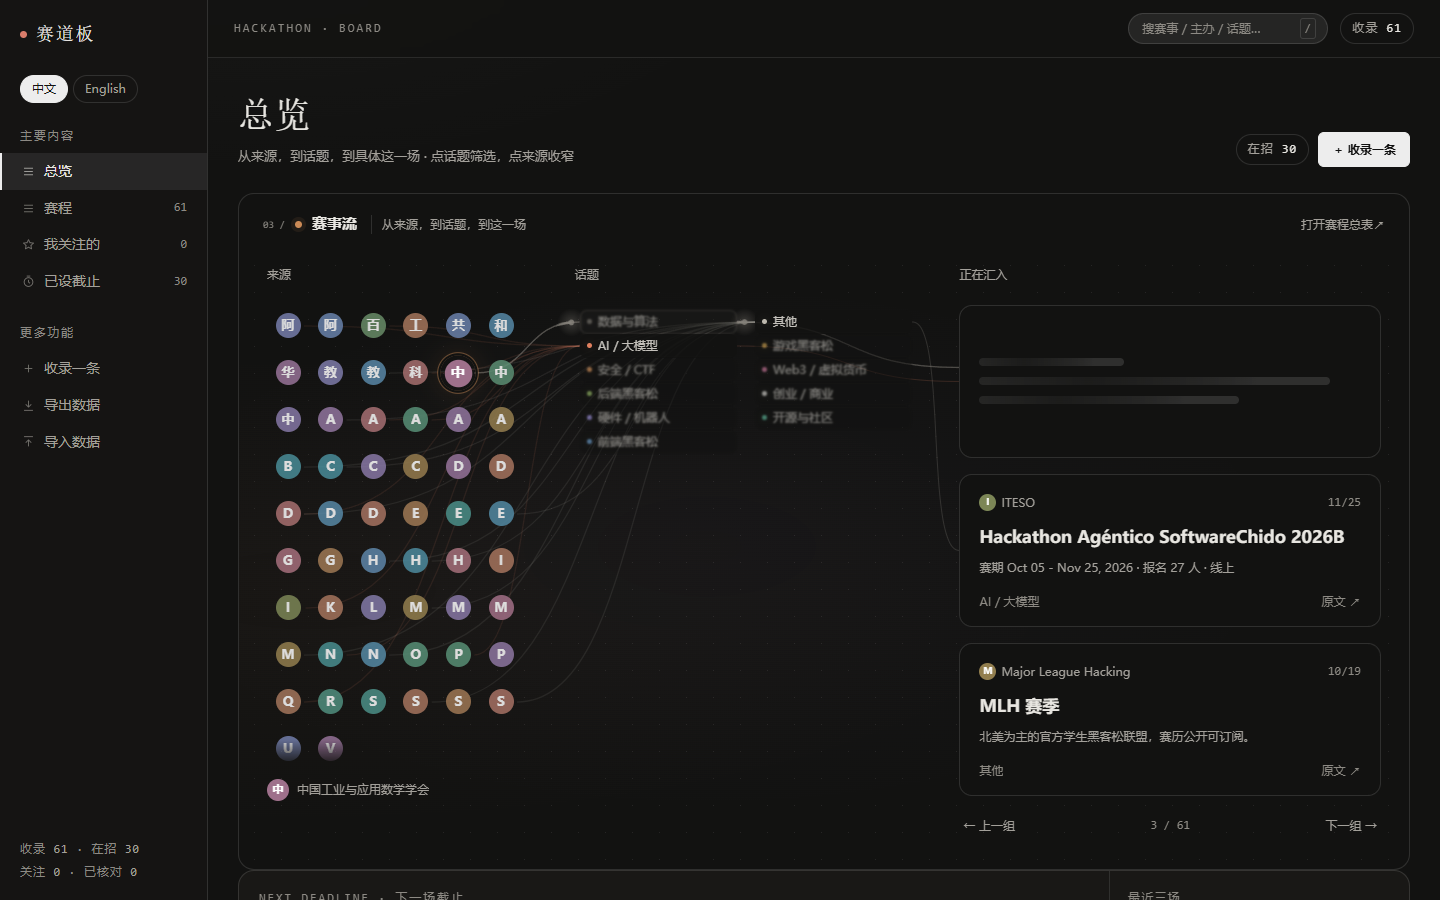
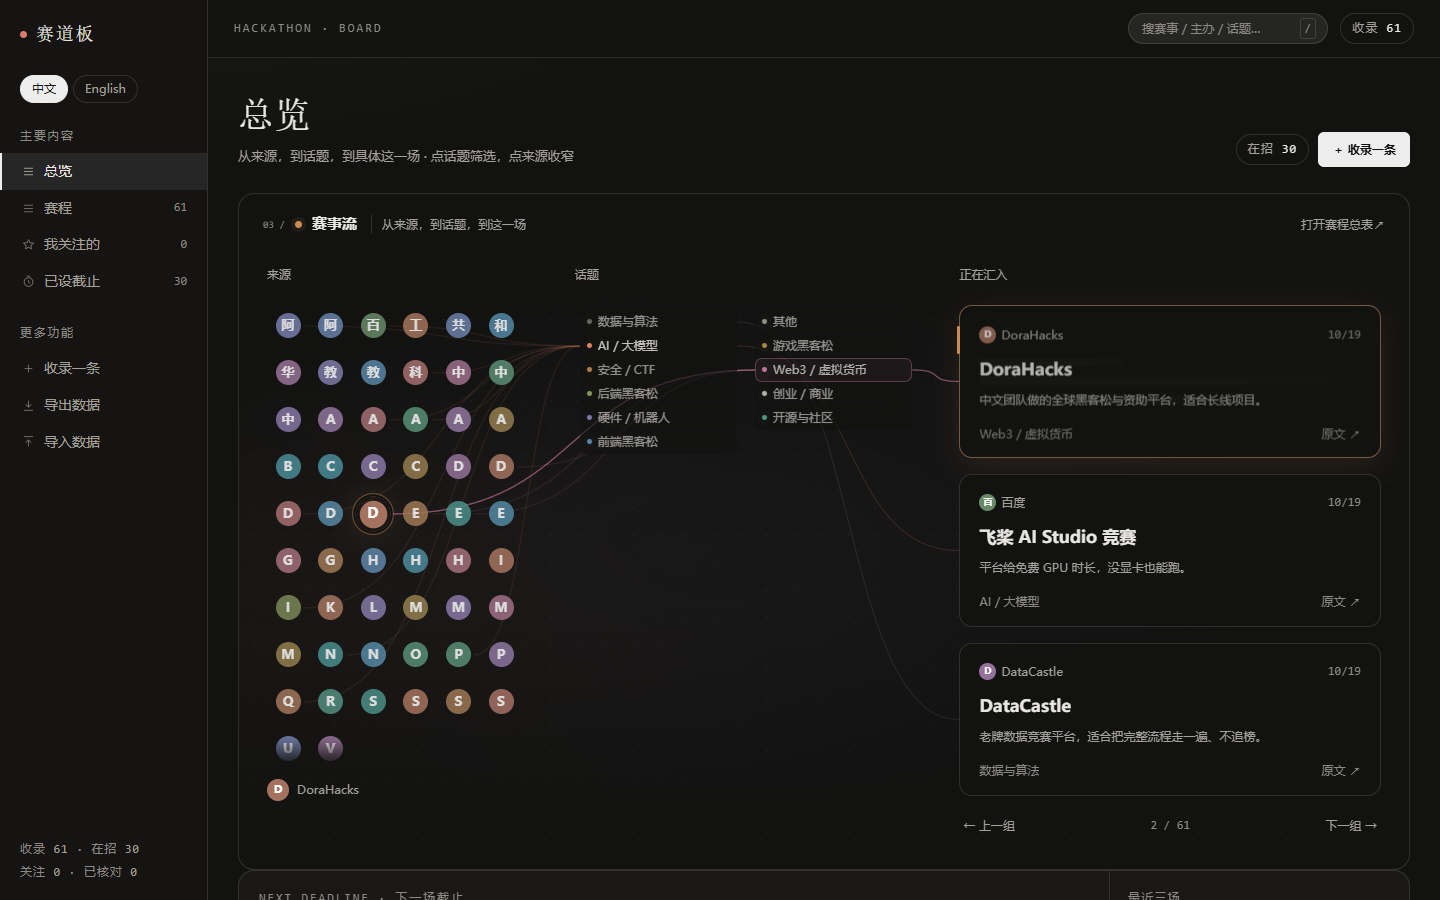
docs: 补 Cloudflare Pages 三种部署路线

diff --git a/部署-Cloudflare.md b/部署-Cloudflare.md
@@ -1,0 +1,120 @@
+# 部署到 Cloudflare Pages
+
+产物是纯静态的 `dist/`（无后端、无 SSR），Cloudflare Pages 免费额度完全够用。
+
+> 为什么要换：GitHub Pages 在国内访问偏慢，`*.pages.dev` 通常快一截，
+> 而且不用备案（服务器在境外）。
+
+---
+
+## 路线 A：拖拽上传（最快，3 分钟，不需要 Git）
+
+适合「先看到东西」。
+
+1. 本地构建一次：
+
+   ```bash
+   node node_modules/vite/bin/vite.js build
+   ```
+
+2. 打开 https://dash.cloudflare.com/ → 左侧 **Workers & Pages** → **Create** → **Pages** → **Upload assets**
+
+3. 项目名填 `hackathon-board`（决定域名 `hackathon-board.pages.dev`）
+
+4. 把 **`dist` 文件夹整个拖进去** → Deploy
+
+完成。地址形如 `https://hackathon-board.pages.dev`。
+
+**缺点**：以后每次改版都要重新拖一次。
+
+---
+
+## 路线 B：连 Git 仓库（推荐，之后全自动）
+
+适合「以后只 push，不再管部署」。
+
+1. Cloudflare 面板 → **Workers & Pages** → **Create** → **Pages** → **Connect to Git**
+
+2. 授权 GitHub，选仓库 `O789Real/hackathon-board` → Begin setup
+
+3. 构建配置**必须手动填**（自动检测会填错）：
+
+   | 字段 | 值 |
+   |---|---|
+   | Framework preset | `None` |
+   | Build command | `npm install && npm run build` |
+   | Build output directory | `dist` |
+   | Node version（环境变量） | `NODE_VERSION=22` |
+
+   > 注意是 `npm install` 而不是 `npm ci` —— 仓库里用的是 pnpm，没有 `package-lock.json`。
+
+4. Save and Deploy。
+
+之后：
+
+- 你 `git push` → Cloudflare 自动重新构建发布
+- **每天 08:00 的 GitHub Actions 提交了新的 `events.ts` → 也会触发 Cloudflare 重新构建**
+
+两份部署可以并存：GitHub Pages 当备份，`pages.dev` 当主入口。
+
+---
+
+## 路线 C：CI 里直接推（要一个 API Token）
+
+如果你不想让 Cloudflare 自己构建（它每次都要装一遍依赖），
+可以让现有的 GitHub Actions 构建一次、同时发两个地方。
+
+1. Cloudflare 面板 → 右上头像 → **My Profile** → **API Tokens** → **Create Token**
+   → 模板选 **Edit Cloudflare Workers**（或自定义：`Account.Cloudflare Pages: Edit`）
+
+2. 顺手记下 **Account ID**（面板右侧栏，或 URL 里那串 32 位）
+
+3. 到 GitHub 仓库 → Settings → Secrets and variables → Actions → 加两个：
+
+   | Secret | 值 |
+   |---|---|
+   | `CLOUDFLARE_API_TOKEN` | 刚才的 token |
+   | `CLOUDFLARE_ACCOUNT_ID` | 你的 Account ID |
+
+4. 在 `.github/workflows/deploy.yml` 的 `build` job 末尾、`upload-pages-artifact` 之前加一步：
+
+   ```yaml
+       - name: 发布到 Cloudflare Pages
+         if: env.CF_TOKEN != ''
+         env:
+           CF_TOKEN: ${{ secrets.CLOUDFLARE_API_TOKEN }}
+         run: npx wrangler@latest pages deploy dist --project-name=hackathon-board
+   ```
+
+   并在该 job 顶部加：
+
+   ```yaml
+       env:
+         CLOUDFLARE_API_TOKEN: ${{ secrets.CLOUDFLARE_API_TOKEN }}
+         CLOUDFLARE_ACCOUNT_ID: ${{ secrets.CLOUDFLARE_ACCOUNT_ID }}
+   ```
+
+没配 secret 时这一步会跳过，不影响 GitHub Pages 那条链路。
+
+---
+
+## 自定义域名（可选）
+
+面板 → 你的 Pages 项目 → **Custom domains** → 添加域名 → 按提示改 DNS。
+
+绑了自有域名就**不能**用 Cloudflare 的免费 `pages.dev` 做备案主体；
+如果以后要放国内服务器，才需要 ICP 备案（Pages 不需要）。
+
+---
+
+## 验收清单
+
+部署完打开首页，确认这几条：
+
+- [ ] 深色底（`#121212` 附近），不是白底
+      → 白底说明 `<html data-theme="dark">` 丢了
+- [ ] 左侧「来源」是一墙彩色圆点，不是一片灰
+- [ ] 中间「话题」11 个，能点，点了右侧只剩该话题的比赛
+- [ ] 右侧 3 张卡，至少 2 张能看清标题
+- [ ] 底部倒计时在跳秒
+- [ ] 控制台无红色报错
